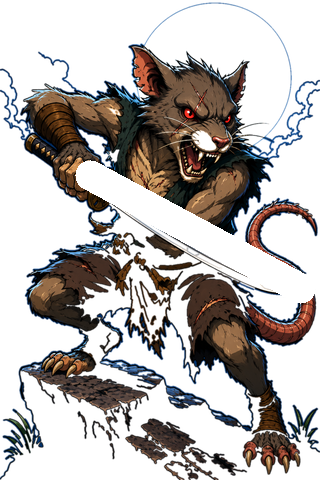
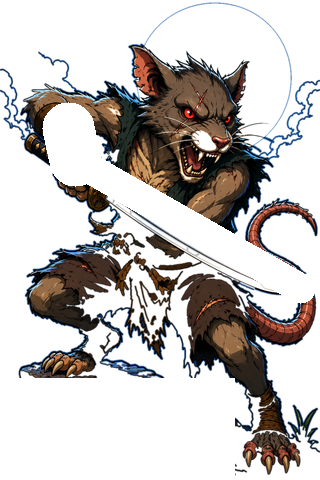
Fall-off-platform mechanic, and remove characters' personal rocks
Gameplay: the arena floor is now a bounded platform (not an infinite
ground line) matching the floating island in the background art.
Walking or getting knocked past its edges drops a fighter into open
air; falling far enough is an instant KO, so ring-outs are now a real
threat alongside HP damage.

Character art: cropped the rock pedestal out from under Shade, Gnash,
and Howler so they stand on the game's own platform instead of their
own personal chunk of rock.

Also widened the swinging layer on each character from "just the
blade" to the whole forearm + hand + weapon, pivoting from the elbow.
Attacks now read as an arm swinging a weapon, not a weapon rotating
in front of a static arm.

diff --git a/public/index.html b/public/index.html
@@ -241,7 +241,7 @@ addChar(Object.assign({
   hp:90, speed:4.1, jump:12,
   fur:'#2b2438', furDark:'#1a1624', belly:'#4a4460', eye:'#7bd389',
   blurb:'Silent hunter · deadly claws',
-  sprite:{body:'img/shade_body.png', weapon:'img/shade_weapon.png', pivot:[235,250], weaponPivot:[36,35]}
+  sprite:{body:'img/shade_body.png', weapon:'img/shade_weapon.png', pivot:[205,222], weaponPivot:[32,32]}
 }, makeAttacks('War Claws')));
 
 addChar(Object.assign({
@@ -249,7 +249,7 @@ addChar(Object.assign({
   hp:80, speed:4.5, jump:11,
   fur:'#8a7a5c', furDark:'#5c4f38', belly:'#c7b98f', eye:'#ff2e2e',
   blurb:'Scarred and vicious · never backs down',
-  sprite:{body:'img/gnash_body.png', weapon:'img/gnash_weapon.png', pivot:[90,175], weaponPivot:[21,21]}
+  sprite:{body:'img/gnash_body.png', weapon:'img/gnash_weapon.png', pivot:[68,128], weaponPivot:[32,32]}
 }, makeAttacks('Katana')));
 
 addChar(Object.assign({
@@ -257,7 +257,7 @@ addChar(Object.assign({
   hp:100, speed:3.6, jump:11,
   fur:'#b9863f', furDark:'#7d5c2a', belly:'#e6d3a0', eye:'#ffa726',
   blurb:'Moonlit raider · unbreakable guard',
-  sprite:{body:'img/howler_body.png', weapon:'img/howler_weapon.png', pivot:[50,180], weaponPivot:[41,108]}
+  sprite:{body:'img/howler_body.png', weapon:'img/howler_weapon.png', pivot:[112,158], weaponPivot:[104,87]}
 }, makeAttacks('Sword & Shield')));
 
 function allIds(){ return Object.keys(CHARS); }
@@ -534,6 +534,7 @@ function renderFighterSprite(ctx, char, ox, oy, facing, anim){
 
 /* ============ GAME STATE ============ */
 const ARENA_W=960, ARENA_H=500, GROUND_Y=400, GRAVITY=0.7, MIN_SEP=34, WORLD_W=1500;
+const PLATFORM_LEFT=150, PLATFORM_RIGHT=WORLD_W-150, FALL_DEATH_Y=-260;
 let vsCpu=false, selectedP1=null, selectedP2=null;
 let fighters=[], phase='select', timer=60, frameCount=0, shake=0, announceTO=null;
 let particles=[];
@@ -731,14 +732,22 @@ function updateFighter(f, fList){
 
   f.y += f.vy;
   f.vy -= GRAVITY;
-  if(f.y<=0){
+  const onPlatform = f.x>=PLATFORM_LEFT && f.x<=PLATFORM_RIGHT;
+  if(f.y<=0 && onPlatform){
     f.y=0; f.vy=0;
     if(!f.onGround){
       f.onGround=true;
       if(f.state==='jump') f.state=(f.input.left||f.input.right)?'walk':'idle';
     }
   } else {
+    if(f.onGround && (f.state==='idle'||f.state==='walk')) f.state='jump';
     f.onGround=false;
+  }
+
+  if(f.state!=='ko' && f.y<FALL_DEATH_Y){
+    f.hp=0; f.state='ko'; f.hitFlash=10;
+    spawnHit(f.x, GROUND_Y-f.y, '#ff6b6b', 16);
+    SFX.ko();
   }
 
   if(f.cooldown>0) f.cooldown--;
@@ -798,9 +807,10 @@ function drawArena(){
   actx.scale(cam.scale, cam.scale);
   actx.translate(-cam.centerX, 0);
 
-  actx.fillStyle='rgba(10,8,18,0.5)'; actx.fillRect(cam.centerX-2500,GROUND_Y,5000,ARENA_H-GROUND_Y);
-  actx.strokeStyle='rgba(242,193,78,.35)'; actx.lineWidth=2/cam.scale;
-  actx.beginPath(); actx.moveTo(cam.centerX-2500,GROUND_Y); actx.lineTo(cam.centerX+2500,GROUND_Y); actx.stroke();
+  actx.fillStyle='rgba(10,8,18,0.5)';
+  actx.fillRect(PLATFORM_LEFT,GROUND_Y,PLATFORM_RIGHT-PLATFORM_LEFT,ARENA_H-GROUND_Y+400);
+  actx.strokeStyle='rgba(242,193,78,.6)'; actx.lineWidth=3/cam.scale;
+  actx.beginPath(); actx.moveTo(PLATFORM_LEFT,GROUND_Y); actx.lineTo(PLATFORM_RIGHT,GROUND_Y); actx.stroke();
 
   const order = fighters.slice().sort((a,b)=>a.x-b.x);
   for(const f of order){
